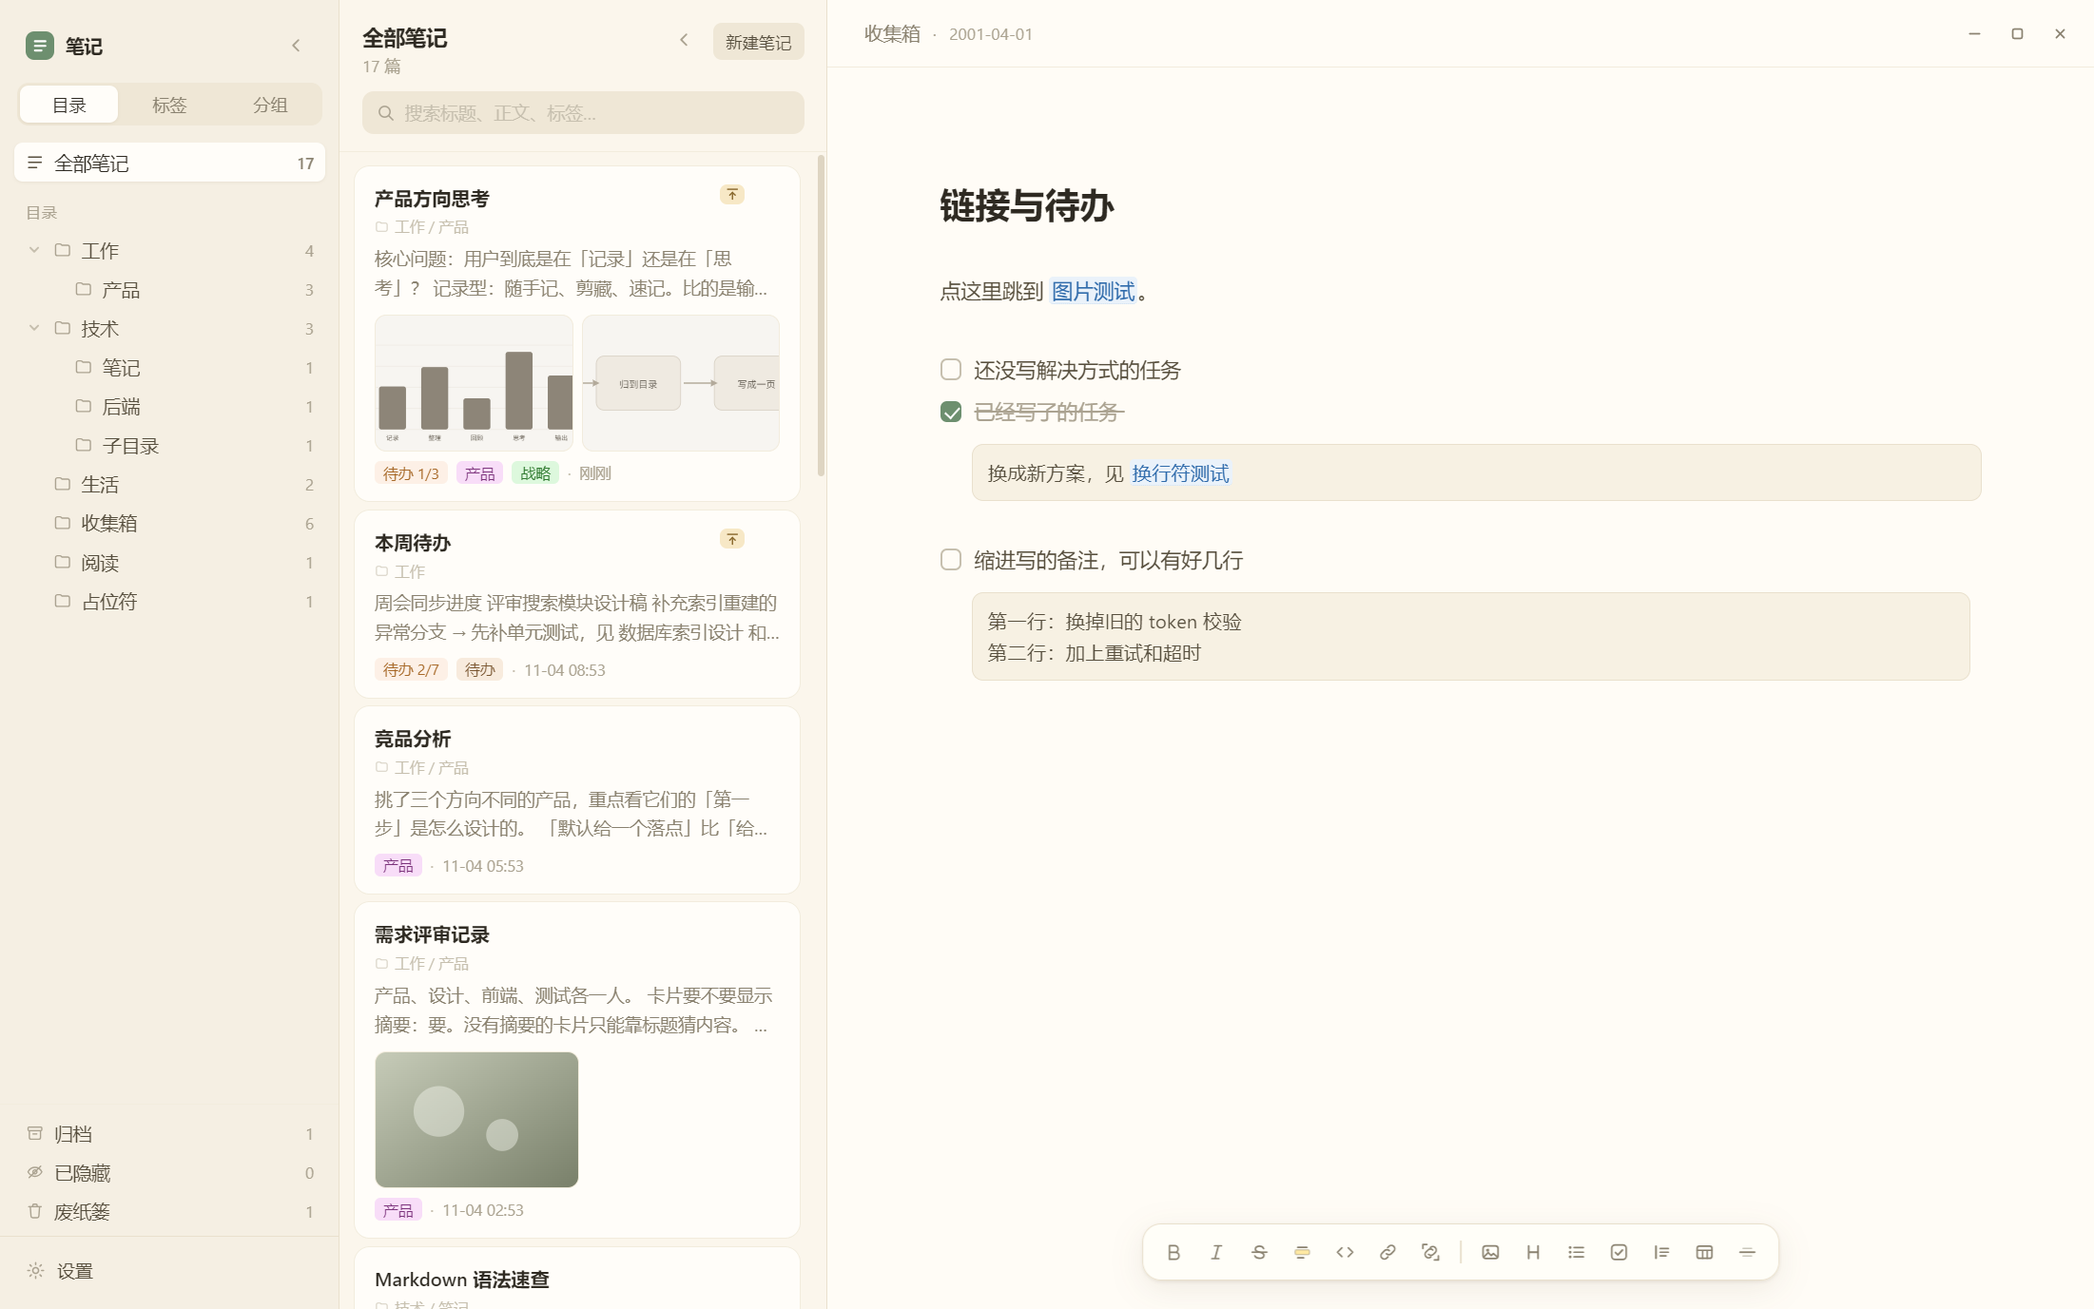
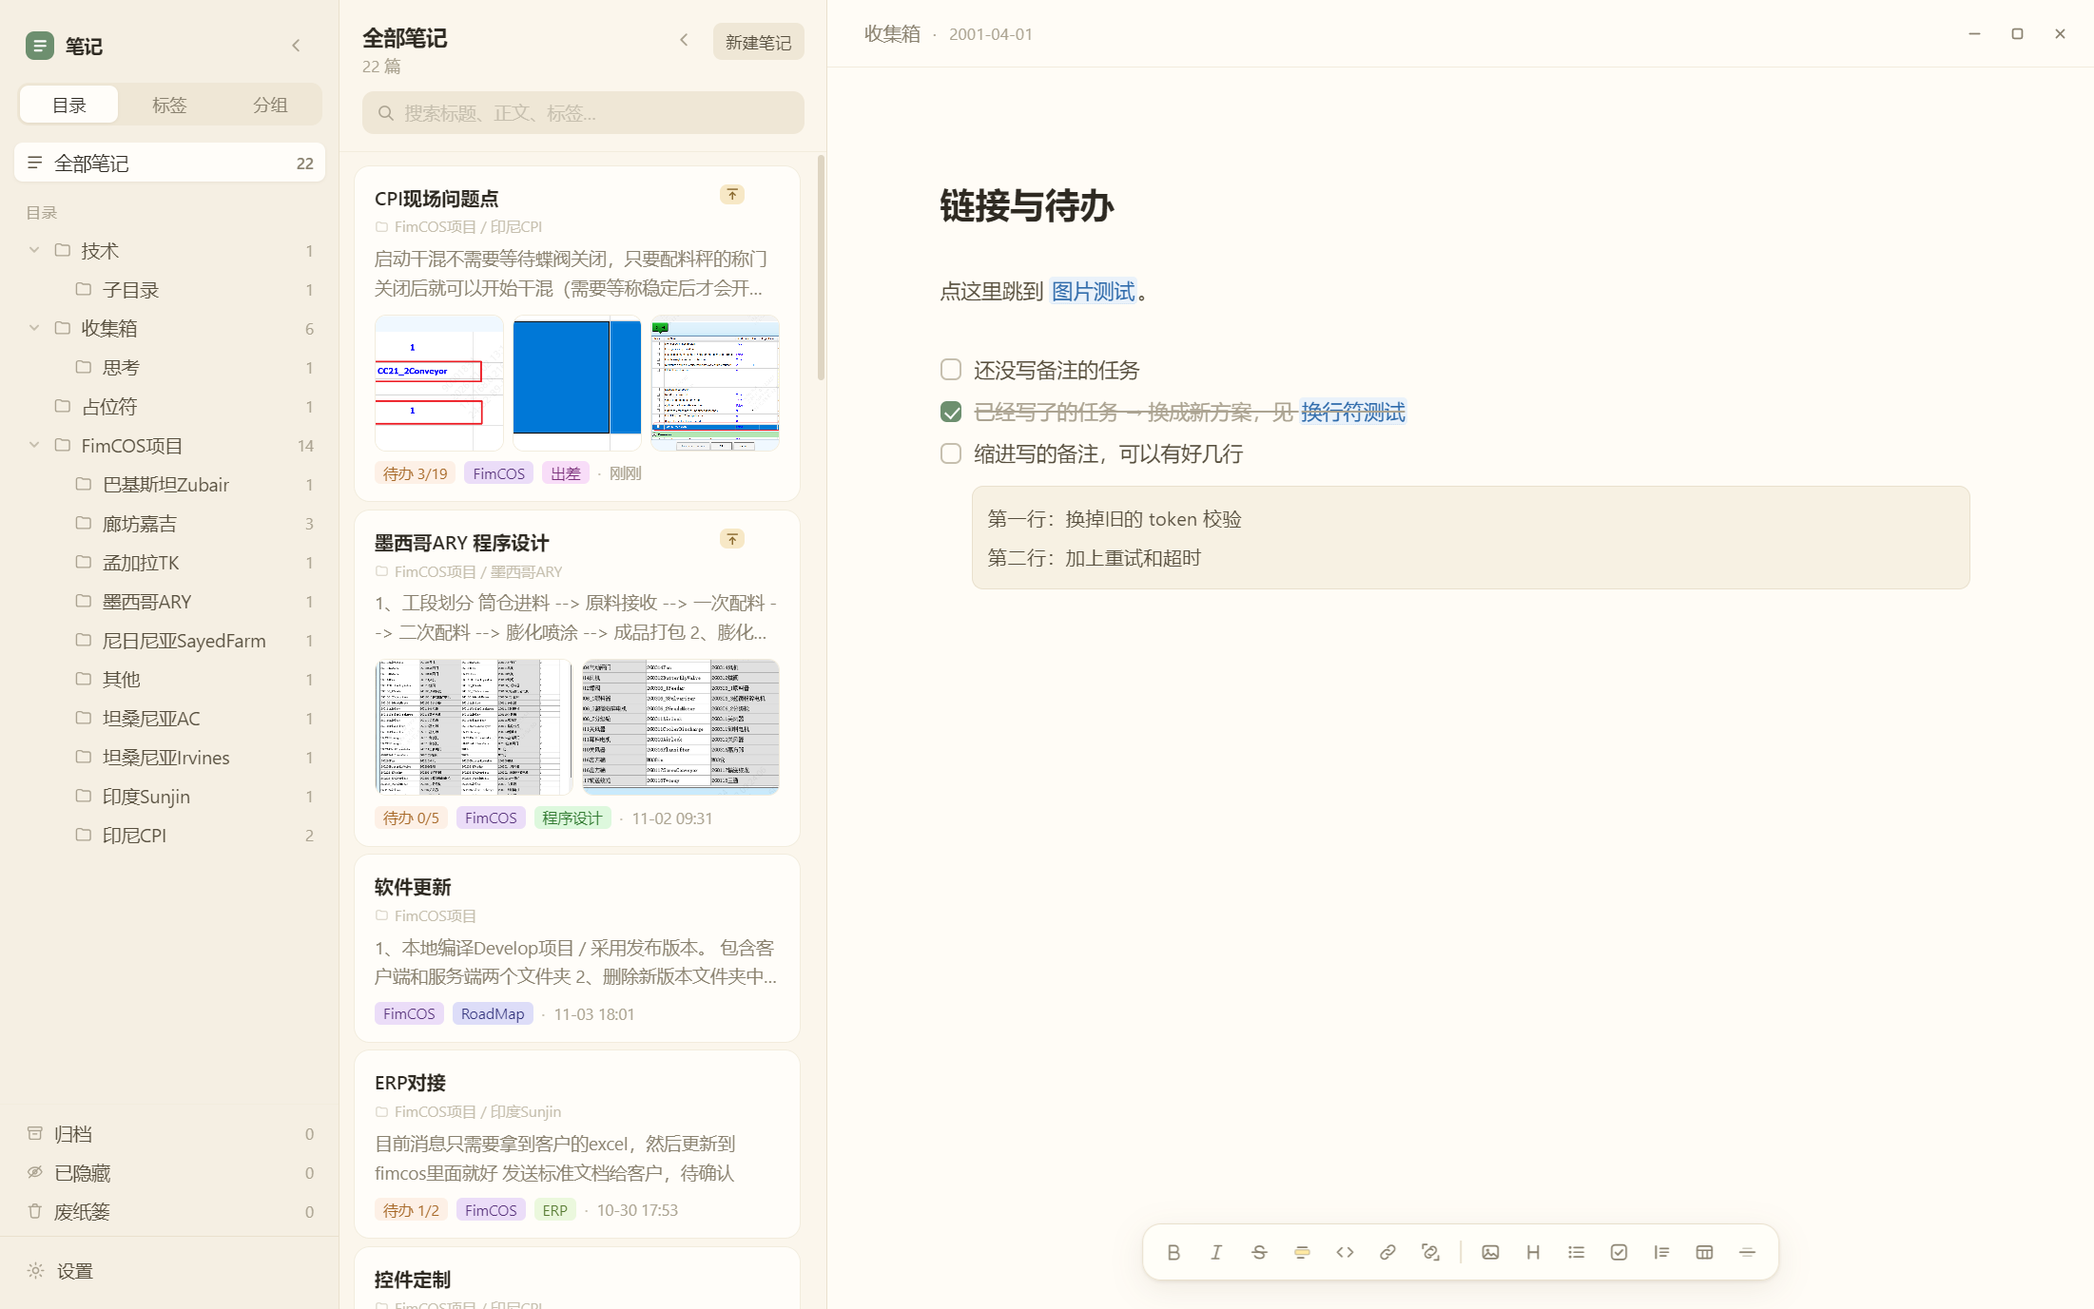
fix: 箭头不再是备注语法；备注行距跟正文对齐；框下面留出空
- 拆掉 `→` / `->` 的解析与渲染：不再产出 cm-todo-arrow / cm-todo-note，
  箭头按普通文字显示，想写备注就缩进到下一行
- 备注行高从写死的 1.65 改成 calc(var(--doc-lh) / .94)：
  字号缩到 .94em 后把倍数除回去，乘出来和正文是同一个物理行高
- 备注框下面那道空挂在「下一行」的 padding-top 上（cm-todonote-gap）——
  加在末行的 padding-bottom 只会把框撑高，框和下文还是贴着
- 顺手删掉 right.css 里重复的一份备注样式
- 冒烟：todoNote → todoArrow（箭头退化成普通文字、只有缩进那条带框），
  新增 noteStyle（行高 27.55 对 27.55、留白 10px）

diff --git a/src/styles/right.css b/src/styles/right.css
@@ -156,24 +156,8 @@ body.img-resizing *{cursor:nwse-resize!important;user-select:none!important}
 .cm-todo{display:inline-block;vertical-align:middle}
 .cm-todo-done{text-decoration:line-through;text-decoration-thickness:1px;color:var(--t4)}
 
-/* 待办的「解决方式」：挂在待办下面的一块备注区，不再是跟在箭头后面的小字。
-   箭头只是语法上的分隔符，平时不显示 —— 光标进这一行时会整个露出源码，那时能改。
-   用 display:block 让它脱离行内流：标题留在上面一行，备注落到下面并撑成一个框 */
-.cm-todo-arrow{display:none}
-.cm-todo-note{
-  display:block;
-  /* 底部不留 margin：它和 .cm-line 的下边缘会折叠，那一两像素不会计入行高，
-     行高表又对不上了。上面那 7px 夹在两段之间，不会折叠，可以留着 */
-  margin:7px 0 0 22px;
-  padding:8px 11px;
-  border:1px solid var(--border);
-  border-radius:8px;
-  background:var(--hover-soft);
-  color:var(--t2);
-  font-size:.94em;
-  line-height:1.65;
-}
-/* 缩进写的备注（可以有很多行）：每一行都是一条 .cm-line，靠行装饰拼成一个连续的框 ——
+/* 待办的备注：写在待办下面、缩进两格（或一个 tab）的连续行，可以有很多行。
+   每一行都是一条 .cm-line，靠行装饰拼成一个连续的框 ——
    首行圆上角、末行圆下角、中间上下都不画线，看起来就是一块。
    上下留白一律用 padding：行高量的是元素自己的 rect，margin 不计入，
    会让下面每一行的坐标整体上移（就是「有图片之后光标不准」那个坑） */
@@ -187,7 +171,10 @@ body.img-resizing *{cursor:nwse-resize!important;user-select:none!important}
   border-right:1px solid var(--border);
   color:var(--t2);
   font-size:.94em;
-  line-height:1.65;
+  /* 行高要和框外面一模一样。正文是 --doc-lh × 1em，这里字号缩到了 .94em，
+     所以把倍数除回去 —— 乘出来还是同一个物理行高。不除的话字号一小，
+     行距跟着缩水，框里看着就比外面挤 */
+  line-height:calc(var(--doc-lh) / .94);
 }
 #editor-host .cm-line.cm-todonote-first{
   border-top:1px solid var(--border);
@@ -201,43 +188,16 @@ body.img-resizing *{cursor:nwse-resize!important;user-select:none!important}
   border-bottom-right-radius:8px;
   padding-bottom:8px !important;
 }
+/* 备注框和下面那段之间的空。挂在「下一行」的 padding-top 上：
+   挂到末行的 padding-bottom 只会把框本身撑高（padding 在边框里面），
+   框和下文还是贴着的 */
+#editor-host .cm-line.cm-todonote-gap{padding-top:10px !important}
 /* 标题行和下面那块备注之间的缝。用 padding 不用 margin，理由同上 */
 #editor-host .cm-line.cm-todo-withnote{padding-bottom:7px !important}
 
-/* 缩进写的备注（可以有很多行）：每一行都是一条 .cm-line，靠行装饰拼成一个连续的框 ——
-   首行圆上角、末行圆下角、中间上下都不画线，看起来就是一块。
-   上下留白一律用 padding：行高量的是元素自己的 rect，margin 不计入，
-   会让下面每一行的坐标整体上移（就是「有图片之后光标不准」那个坑） */
-#editor-host .cm-line.cm-todonote{
-  margin-left:22px;
-  margin-right:8px;
-  padding-left:11px !important;
-  padding-right:11px;
-  background:var(--hover-soft);
-  border-left:1px solid var(--border);
-  border-right:1px solid var(--border);
-  color:var(--t2);
-  font-size:.94em;
-  line-height:1.65;
-}
-#editor-host .cm-line.cm-todonote-first{
-  border-top:1px solid var(--border);
-  border-top-left-radius:8px;
-  border-top-right-radius:8px;
-  padding-top:8px !important;
-}
-#editor-host .cm-line.cm-todonote-last{
-  border-bottom:1px solid var(--border);
-  border-bottom-left-radius:8px;
-  border-bottom-right-radius:8px;
-  padding-bottom:8px !important;
-}
-/* 标题行和下面那块备注之间的缝。用 padding 不用 margin，理由同上 */
-#editor-host .cm-line.cm-todo-withnote{padding-bottom:7px !important}
-
-/* 还没写解决方式时行尾那个小「＋」，平时隐形，鼠标移到这一行才出现。
+/* 还没写备注时行尾那个小「＋」，平时隐形，鼠标移到这一行才出现。
    光 opacity:0 是不够的 —— 透明元素照样接收点击，行尾那 22px 就成了死区，
-   点下去会插一个「→」而不是把光标放到行尾。所以一并关掉命中测试，
+   点下去会新起一行备注而不是把光标放到行尾。所以一并关掉命中测试，
    只在真的显形时才接事件 */
 .cm-todonote-add{display:inline-block;width:16px;height:16px;line-height:15px;margin-left:6px;
   border-radius:5px;border:1px dashed var(--border);background:transparent;color:var(--t5);

diff --git a/src/editor/live-preview.ts b/src/editor/live-preview.ts
@@ -1223,6 +1223,7 @@ function buildDecorations(view: EditorView): Decorations {
   // 先扫一遍建表 —— 渲染标题行时要立刻知道自己有没有备注（决定还显不显示行尾的「＋」）
   const noteLinesOf = new Map<number, number[]>();  // 标题行号 -> 备注行号
   const noteOwner = new Map<number, number>();      // 备注行号 -> 标题行号
+  const noteGap = new Set<number>();                // 紧跟在备注框后面的那行
   {
     const isTodo = (t: string) => /^\s*[-*+]\s+\[[ xX]\]\s+/.test(t);
     const isItem = (t: string) => /^\s*(?:[-*+]|\d+\.)\s+/.test(t);
@@ -1242,6 +1243,10 @@ function buildDecorations(view: EditorView): Decorations {
       if (lines.length) {
         noteLinesOf.set(i, lines);
         for (const j of lines) noteOwner.set(j, i);
+        // 框下面要留点空。留白只能加在「下一行」的 padding-top 上 ——
+        // 加到末行的 padding-bottom 只会把框撑高，框和下文还是贴着
+        const next = lines[lines.length - 1] + 1;
+        if (next <= doc.lines) noteGap.add(next);
       }
     }
   }
@@ -1279,6 +1284,9 @@ function buildDecorations(view: EditorView): Decorations {
     const text = line.text;
     // 光标所在行露出源码
     const active = focused && reveal && i >= aFrom && i <= aTo;
+
+    // 上一行是备注框的末行：给这一行加个上留白，别和框贴在一起
+    if (noteGap.has(i)) out.push(lineDeco('cm-todonote-gap').range(line.from));
 
     // 代码块：光标在块内就露出源码（围栏行 + 中间行都上等宽样式），否则整块交给 codeField
     const cb = codeMap.get(i);
@@ -1365,12 +1373,6 @@ function buildDecorations(view: EditorView): Decorations {
         const checked = m[3].toLowerCase() === 'x';
         const bodyFrom = line.from + m[0].length;
 
-        // 解决方式写在箭头后面：
-        // `- [ ] 修一下登录 → 换成新的 token 校验 [[登录改造]]`
-        const am = /(?:→|->)/.exec(text.slice(m[0].length));
-        const arrow = am ? m[0].length + am.index : -1;
-        const arrowLen = am ? am[0].length : 0;
-
         // 这一条有没有缩进的备注行。有的话：光标落在任意一行都要整条露源码，
         // 标题行下面留一道缝（用 padding，不是 margin），行尾也不再显「＋」
         const notes = noteLinesOf.get(i);
@@ -1380,25 +1382,14 @@ function buildDecorations(view: EditorView): Decorations {
         if (!itemActive) {
           pushReplaced(new TodoWidget(checked, bracket), start, line.from + m[0].length);
 
-          // 删除线必须在行内标记之前 push：同一 from 时长范围要先入。
-          // 划掉的范围到箭头为止 —— 解决方式不是「待办本身」，不该跟着划掉
-          const strikeTo = arrow >= 0 ? line.from + arrow : line.to;
-          if (checked && strikeTo > bodyFrom) {
-            out.push(Decoration.mark({ class: 'cm-todo-done' }).range(bodyFrom, strikeTo));
+          // 删除线必须在行内标记之前 push：同一 from 时长范围要先入
+          if (checked && line.to > bodyFrom) {
+            out.push(Decoration.mark({ class: 'cm-todo-done' }).range(bodyFrom, line.to));
           }
 
-          if (arrow >= 0) {
-            out.push(Decoration.mark({ class: 'cm-todo-arrow' })
-              .range(line.from + arrow, line.from + arrow + arrowLen));
-            // 箭头后面那个空格不算备注的一部分：箭头本身不显示，
-            // 空格留着的话框里的文字会平白多缩进一格
-            let noteFrom = line.from + arrow + arrowLen;
-            while (noteFrom < line.to && /\s/.test(state.doc.sliceString(noteFrom, noteFrom + 1))) noteFrom++;
-            if (line.to > noteFrom) {
-              out.push(Decoration.mark({ class: 'cm-todo-note' }).range(noteFrom, line.to));
-            }
-          } else if (line.to > line.from && !notes) {
-            // 缩进写备注时，行尾的「＋」不再需要（它本身也改成插一行缩进）
+          // 备注只认缩进的行。以前还认 `→ 备注` 写在行尾，一行就写死了，
+          // 现在彻底去掉 —— 箭头按普通文字渲染，想写备注就在下面缩进
+          if (line.to > line.from && !notes) {
             const lead = /^[ \t]*/.exec(text)![0];
             out.push(Decoration.widget({ widget: new TodoNoteWidget(line.to, lead + '  '), side: 1 })
               .range(line.to));

diff --git a/README.md b/README.md
@@ -95,7 +95,7 @@ npm run desktop:shots  # same, but against a fictional demo vault — this is wh
 > which meant the sidebar was full of client folder names and the cards held site photos —
 > shipping those with the repo is a leak, so they were replaced entirely.
 
-`desktop:smoke` really clicks through the app before exiting: a real mouse click on the settings panel's close button and the right-pane toggle → click a card → screenshot → click a table to edit → click elsewhere to re-render → click bold in the quick bar then undo → click `···` to open the action bar → switch through three color schemes × light/dark, one screenshot each → multi-select tags → rename a folder (and rename it back) → pin badge → drag to reorder (then drag back) → image rendering → single click only selects → tap the 50% preset → drag the handle wider → shrink to 25% → copy the image to the clipboard → double-click into source → paste an image to disk → card preview (no blank cards + thumbnails + CRLF excerpt) → code block highlighting + one click drops the cursor in → click an internal link → todo notes (indented lines join into one box, clicking one puts the caret on that line, Shift-Enter and Enter both break lines inside the note) → whether the paragraph under an image takes the caret where you click → both panes expanded on startup → per-spot highlight colours (two different ones on one line + recolour in place) → Tab / Shift-Tab indent → card path shortens level by level → drag-reorder folders → old folder is reclaimed after rename → file renames when the title changes → placeholder filenames aligned to titles on startup → right-click hide / unhide from Hidden → rename the app → card image on its own row + multi-image layout → set password / lock / wrong password rejected / right password accepted. Screenshots land in `docs/`:
+`desktop:smoke` really clicks through the app before exiting: a real mouse click on the settings panel's close button and the right-pane toggle → click a card → screenshot → click a table to edit → click elsewhere to re-render → click bold in the quick bar then undo → click `···` to open the action bar → switch through three color schemes × light/dark, one screenshot each → multi-select tags → rename a folder (and rename it back) → pin badge → drag to reorder (then drag back) → image rendering → single click only selects → tap the 50% preset → drag the handle wider → shrink to 25% → copy the image to the clipboard → double-click into source → paste an image to disk → card preview (no blank cards + thumbnails + CRLF excerpt) → code block highlighting + one click drops the cursor in → click an internal link → todo notes (indented lines join into one box, clicking one puts the caret on that line, Shift-Enter and Enter both break lines inside the note, and `→` is demoted to ordinary text) → whether the paragraph under an image takes the caret where you click → both panes expanded on startup → per-spot highlight colours (two different ones on one line + recolour in place) → Tab / Shift-Tab indent → card path shortens level by level → drag-reorder folders → old folder is reclaimed after rename → file renames when the title changes → placeholder filenames aligned to titles on startup → right-click hide / unhide from Hidden → rename the app → card image on its own row + multi-image layout → set password / lock / wrong password rejected / right password accepted. Screenshots land in `docs/`:
 
 | File | Contents |
 | --- | --- |
@@ -154,9 +154,10 @@ A few assertions worth keeping:
 | `atomic=ok text="ZZa**粗**" col=5 key=handled` | One ArrowRight from after `a` **skips the whole `**`** and lands before 粗 (3→5); without atomic ranges it stops at 4, where nothing is visible |
 | `imgCaret=ok drift=0 posAt=86 head=86 range=85-98` | For the paragraph under an image: CM's line top matches the DOM (`drift=0`), looking a position up by coordinates finds that line (`posAt`), and a real click puts the caret there (`head`). All three fail when a block widget uses `margin` for spacing |
 | `collapse=ok cls="app" l=238 m=342` | Both left panes are expanded on startup (`.app` carries neither `no-left` nor `no-mid`, and both have real width) |
-| `todoNote=ok head=62 line=44-77` | The arrow-style note is a block under the title (`display:block`, bordered, left edge right of the title text), and clicking it puts the caret on the todo line |
+| `todoArrow=ok` | The arrow is no longer syntax: zero `.cm-todo-note` / `.cm-todo-arrow` in the note, the `→` line renders as plain text (`textContent` contains `→`), only the indented one is boxed, and the trailing `＋` shows on exactly the two todos without a note |
 | `noteMulti=ok n=2 first="…cm-todonote-first" last="…cm-todonote-last"` | Two indented note lines form **one** box: the first carries only `-first`, the last only `-last`, both have a background and side borders; clicking the last line puts the caret on it |
 | `noteEnter=ok s1=prevented s2=prevented tail="- [ ] 甲\n  备注一\n  备注二"` | Shift-Enter starts a note line, Enter breaks a line inside the note, indentation carried over — the note is **multi-line** |
+| `noteStyle=ok {"noteLh":27.55,"bodyLh":27.55,"gapPad":"10px"}` | The note's line height measures the same pixel value as the body (it used to be hard-coded at `1.65`, tighter than the body); the line under the box carries `cm-todonote-gap` with `padding-top: 10px` |
 | `plusHit=ok pointerEvents=none` | The invisible ＋ at the end of a todo line takes no pointer events, so the last 22px of the line isn't a dead zone |
 | `qbEnd=ok line=- [ ] …Zend` | After clicking the todo button the cursor sits at the end of the line, so typing continues there |
 | `prune oldGone=true newThere=true` | After a rename the old folder (including empty subfolders) is really gone |
@@ -320,11 +321,12 @@ The final `verdict={...}` line prints all of those booleans — if one goes red,
 - **Shift-Enter** starts a note line directly under a todo, without tabbing first.
 - The faint `＋` at the end of the todo line does the same thing: one click adds a line below.
 - `[[notes]]` inside the note are clickable, and inline markup (`**bold**`, `` `code` ``) still renders normally.
+- **Line spacing inside the box matches the body exactly** (it follows the line-height setting), and there is a gap
+  below the box so it never touches the next paragraph.
 - Checking the todo strikes through only the title — the note isn't part of "the todo".
-- The older `- [ ] title → note` form is still recognized (one line only, boxed under the title), but **prefer the
-  indented form**: the arrow form breaks as soon as you need a second line.
+- The arrow (`→` / `->`) is **no longer syntax**: it is plain text now, so writing `- [ ] title → note` by hand no
+  longer produces a second box. Put the note on the next line, indented.
 - A todo without a note shows a faint `＋` at the end of the line: it appears on hover, and clicking it adds an indented note line below.
-- `->` works too; you don't have to type the full-width arrow.
 
 **Card previews**
 - Each card in the middle pane shows "an excerpt + thumbnails from the body". Excerpts are at most two lines, truncated beyond that.
